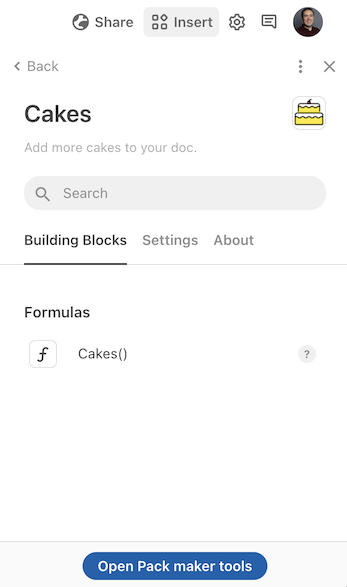
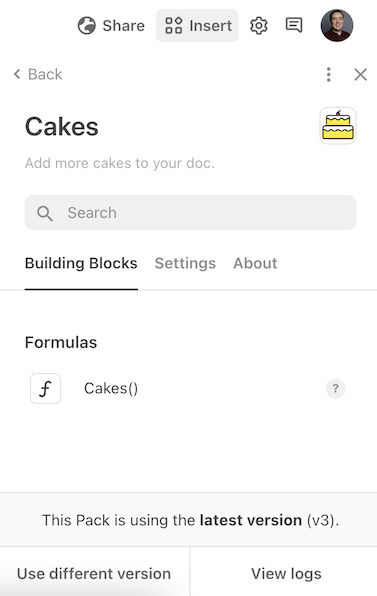
Update PMT button text (#1982)

diff --git a/docs/guides/development/pack-maker-tools.md b/docs/guides/development/pack-maker-tools.md
@@ -13,7 +13,7 @@ There are a few different ways to open the Pack maker tools.
     <img src="../../../images/pmt_open_doc.png" srcset="../../../images/pmt_open_doc_2x.png 2x" class="screenshot" alt="Open Pack maker tools from doc menu">
 
 === "Pack side panel"
-    Open the side panel for a Pack ({{ coda.pack_panel_clicks }}) and click the button **Open Pack maker tools** at the bottom. This option is only visible for users with edit access to the Pack.
+    Open the side panel for a Pack ({{ coda.pack_panel_clicks }}) and click the button **View logs** at the bottom. This option is only visible for users with edit access to the Pack.
 
     <img src="../../../images/pmt_open_panel.png" srcset="../../../images/pmt_open_panel_2x.png 2x" class="screenshot" alt="Open Pack maker tools from Pack panel">
 

diff --git a/docs/tutorials/get-started/.rebuild.md b/docs/tutorials/get-started/.rebuild.md
@@ -5,7 +5,7 @@
     ??? info "Re-opening the Pack's panel"
         If you have navigated away from the Pack's panel, click {{ coda.pack_panel_clicks }}.
 
-1. Click the **Open Pack maker tools** button.
+1. Click the **View logs** button.
 1. In the Pack maker tools bar, click the three dots icon :material-dots-vertical: and then **:material-refresh: Refresh Pack formulas and tables**.
 
     A **Syncing...** indicator will appear at the top of the screen while the formulas are being refreshed.

diff --git a/docs/guides/development/testing.md b/docs/guides/development/testing.md
@@ -11,7 +11,7 @@ Packs built using the web editor in the Pack Studio can only be run and tested i
 1. Open the doc you want to use for testing.
 1. Open the Pack in the sidebar.
 1. Open the **Settings** tab of the Pack.
-1. Click on the **Open Pack maker tools** button.
+1. Click on the **View logs** button.
 1. Click the gear icon (:octicons-gear-16:) to open the **Pack maker settings** dialog.
 1. In the **Installed in this doc** dropdown select **Latest Version**.
 
